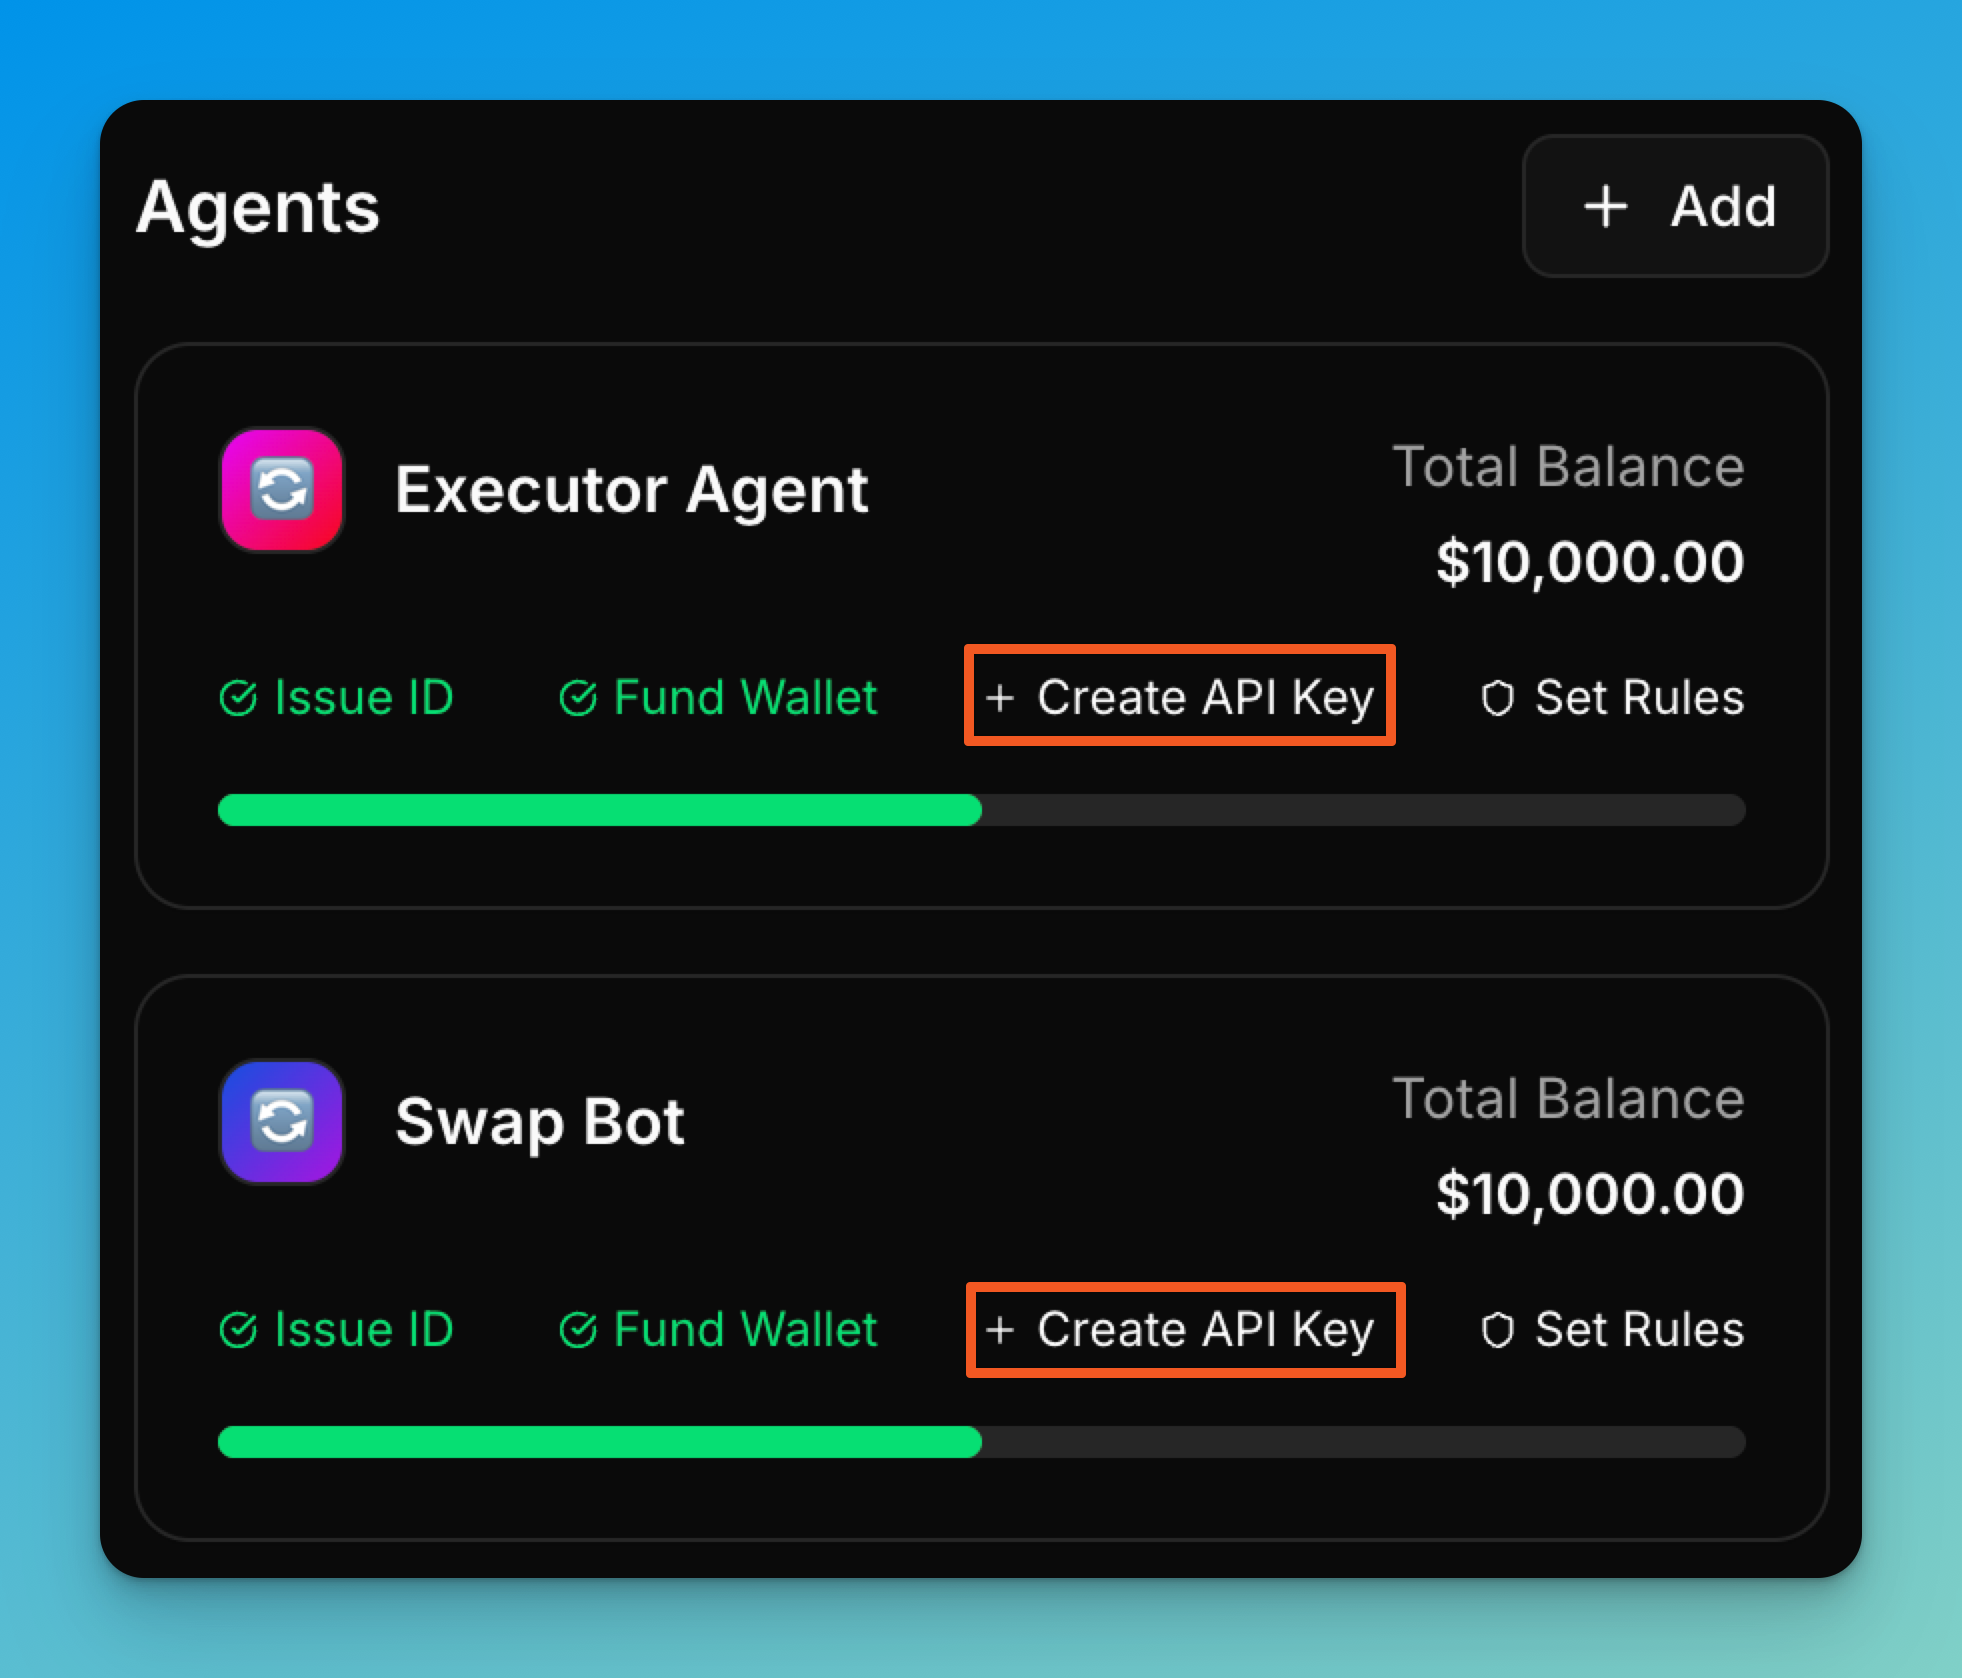
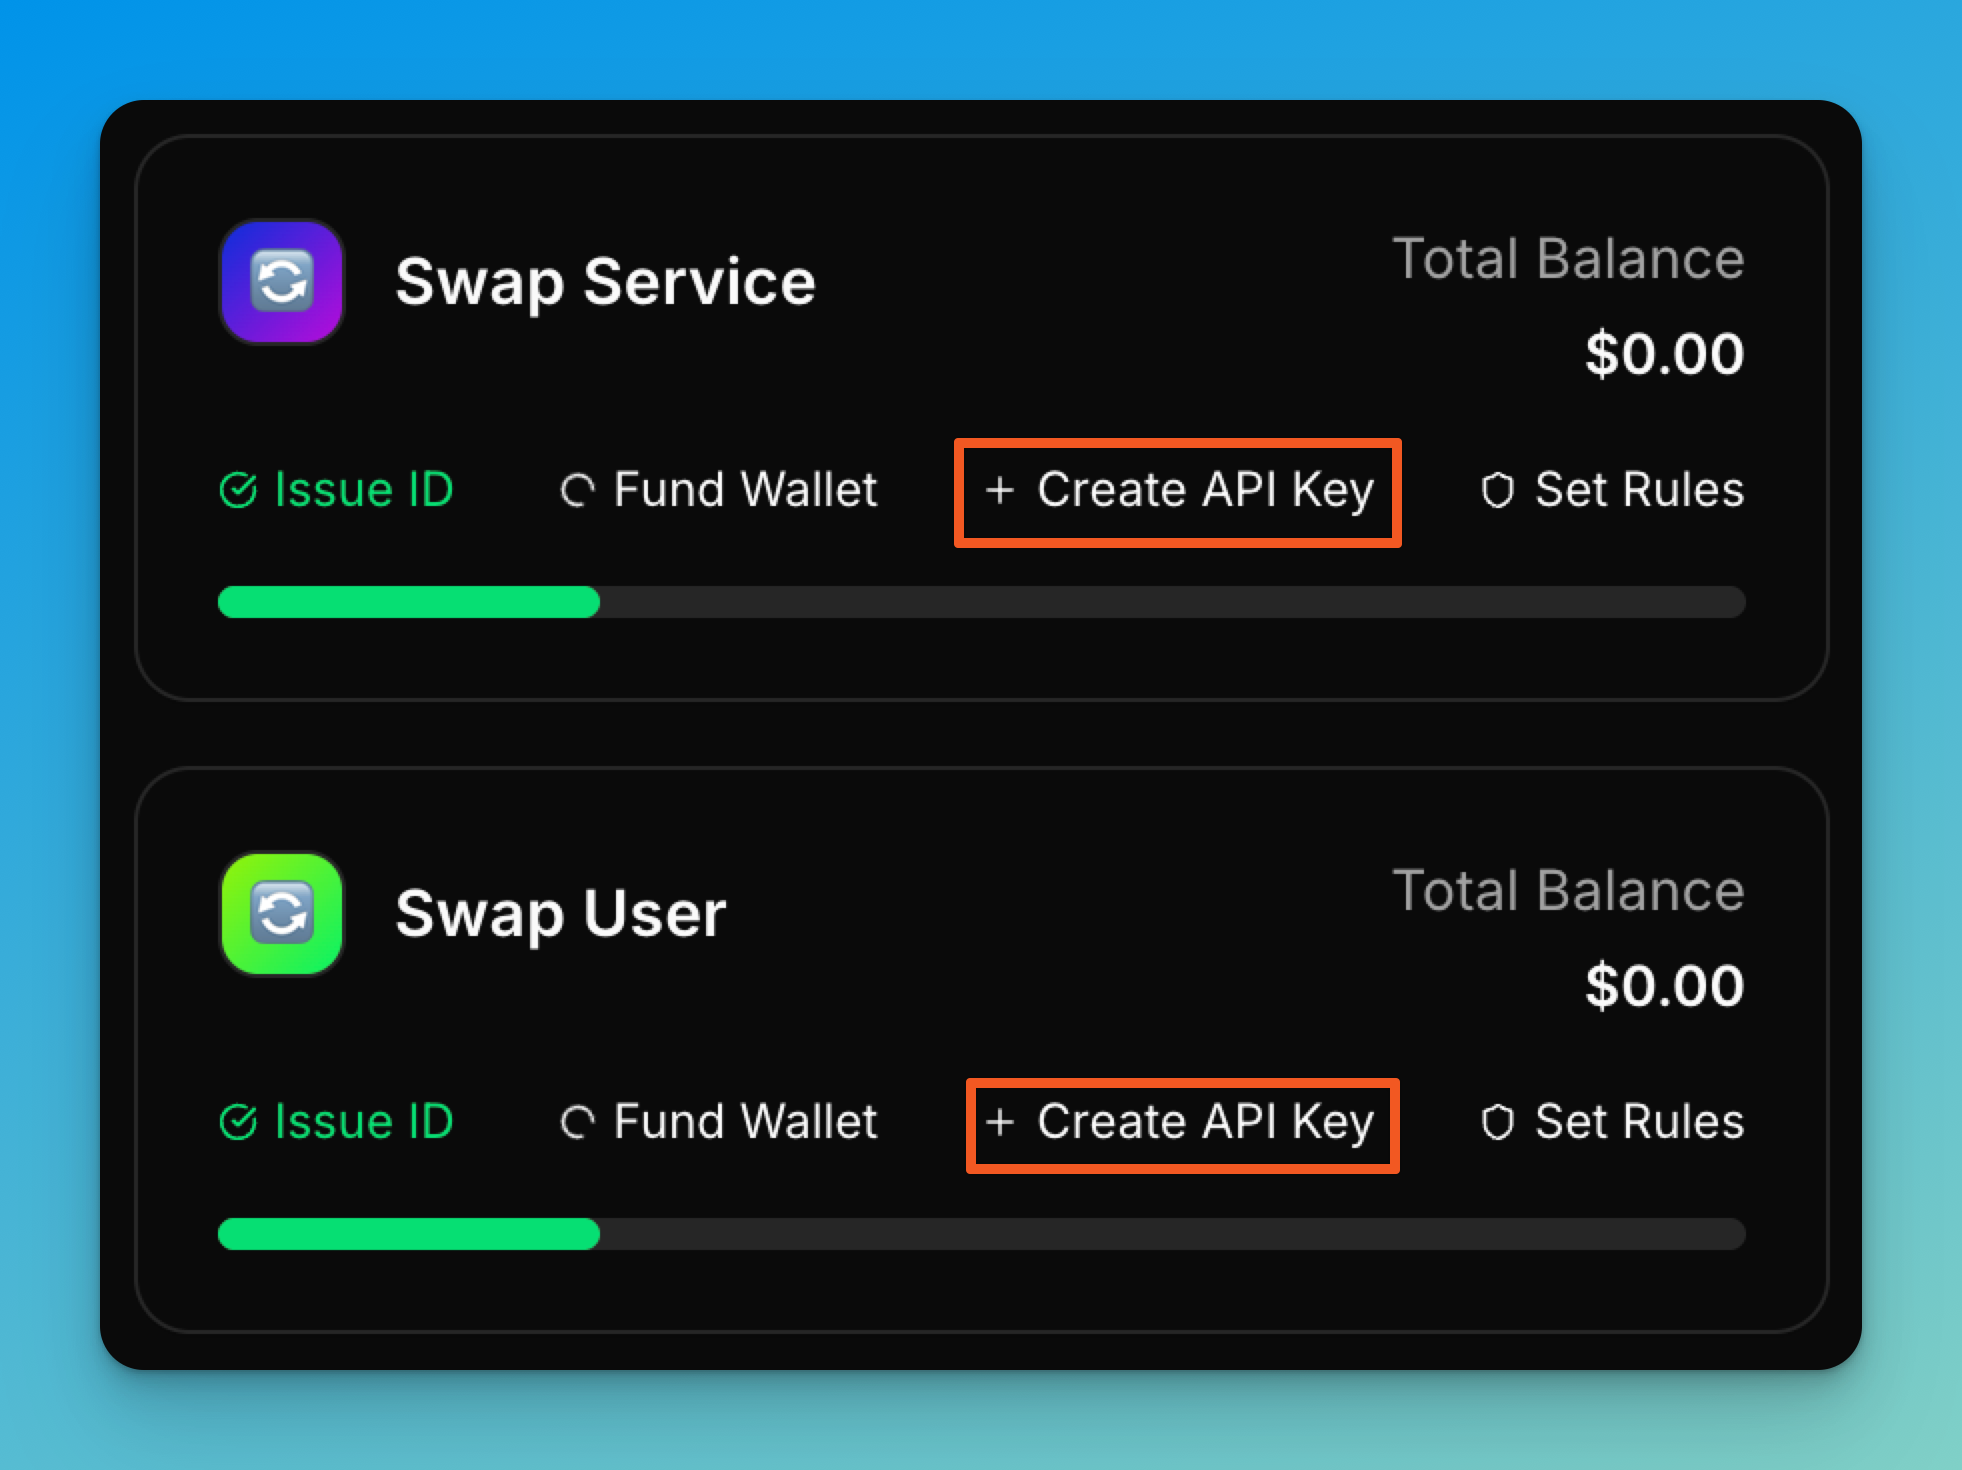
replace screenshot

diff --git a/README.md b/README.md
@@ -36,8 +36,9 @@ Visit [console.anthropic.com](https://console.anthropic.com) and obtain an API k
 Click the "Run on Replit" button at the top of this README or import from GitHub URL.
 
 ### Step 4: Register Your First Agent in ACK-Lab
-1. Navigate to the Agent Registration section in ACK-Lab
-2. Create a "Swap User" agent
+1. Navigate to the New Agent section in ACK-Lab
+2. Click "Let's Go" on "Swap Agent". This will automatically register two agents: "Swap User" and "Swap Service" agents, each with their own identities and wallets.
+3. On your "Swap User" agent, click "Create API Key"
 3. Generate and copy the CLIENT_ID and CLIENT_SECRET
 
 <div align="center">
@@ -62,12 +63,11 @@ Click the "Run on Replit" button at the top of this README or import from GitHub
    <img src="./assets/instructions-screenshots/swap_demo_10.png" width="50%" style="display: block; margin-bottom: 10px;">
 </div>
 
-### Step 6: Register Your Second Agent in ACK-Lab
+### Step 6: Get Keys for Your Second Agent in ACK-Lab
 1. Return to ACK-Lab
-2. Create a "Swap Service" agent
-3. Generate and copy the CLIENT_ID and CLIENT_SECRET
+2. Generate and copy the CLIENT_ID and CLIENT_SECRET for the "Swap Service" agent.
 
-### Step 7: Add Second Agent Credentials to Replit
+### Step 7: Add Swap Service Credentials to Replit
 Add these additional secrets:
    - `CLIENT_ID_SWAP_SERVICE`: Your Swap Service client ID
    - `CLIENT_SECRET_SWAP_SERVICE`: Your Swap Service client secret
